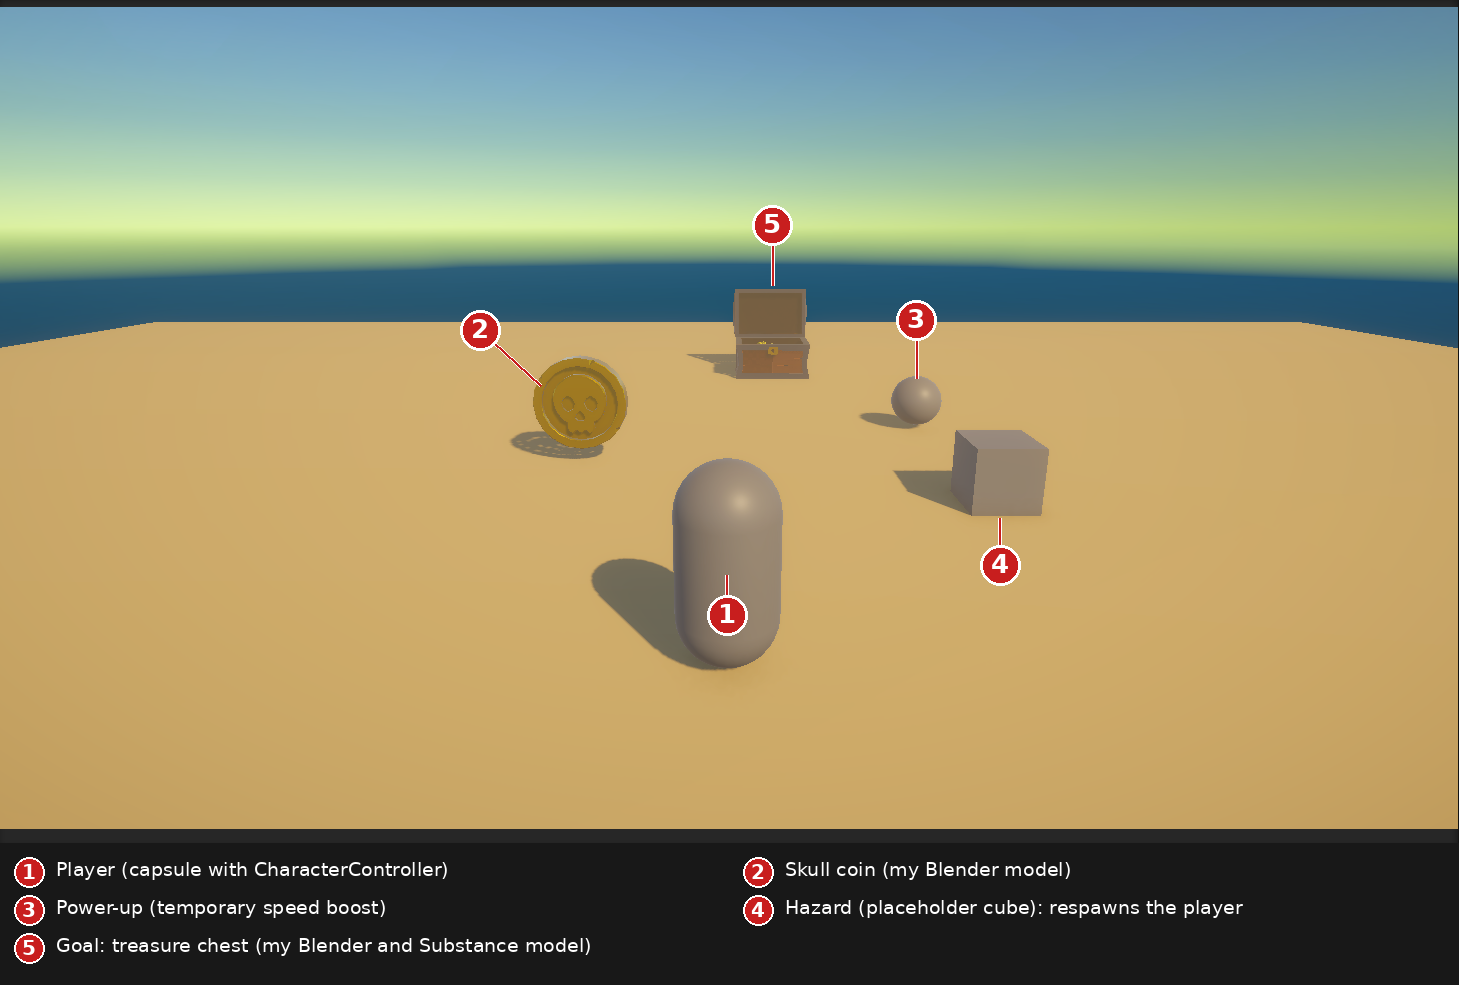
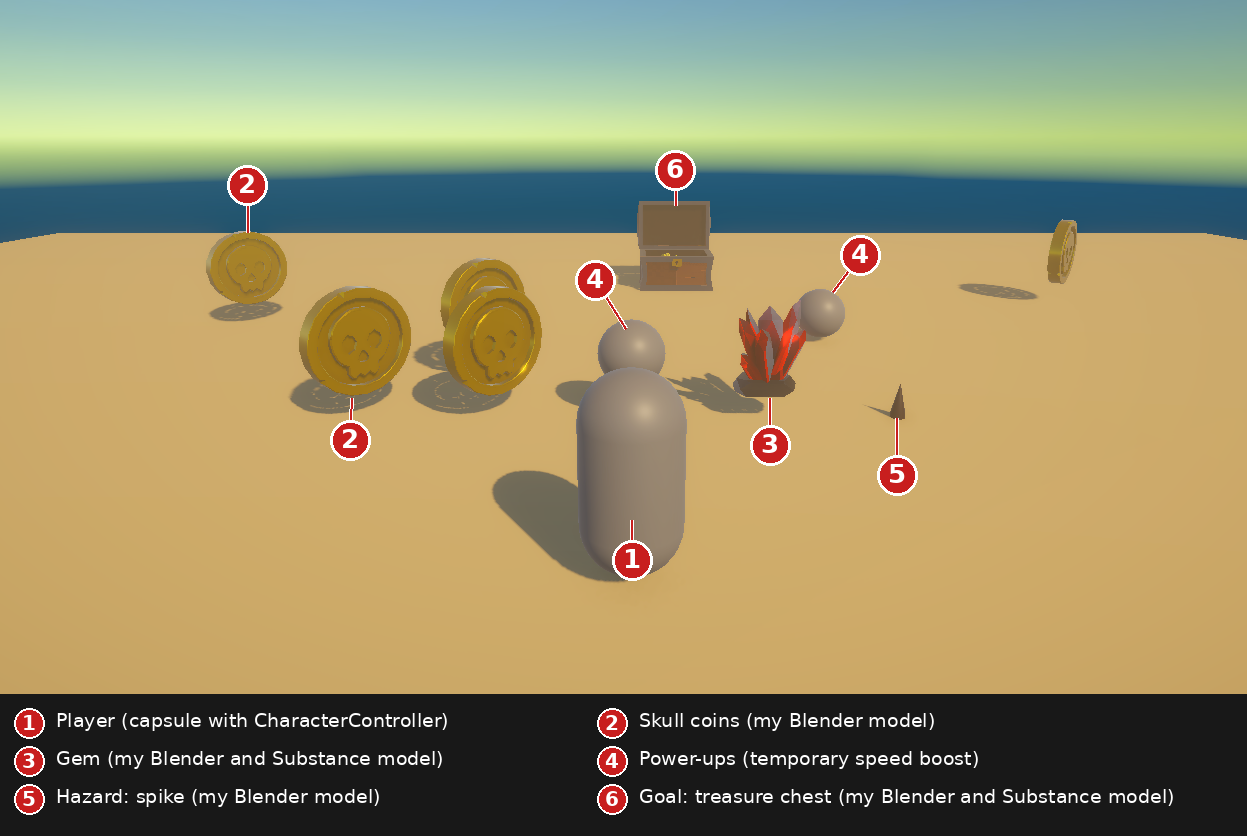
Final Finishes before recording

diff --git a/Assets/Scripts/GameManager.cs b/Assets/Scripts/GameManager.cs
@@ -17,6 +17,10 @@ public class GameManager : Singleton<GameManager>
     private string message = "";
     private float messageUntil = 0f;
 
+    // A small message under the score (power-up / gem collected).
+    private string pickupMessage = "";
+    private float pickupMessageUntil = 0f;
+
     // The native DLL keeps its combo state between Play sessions in the
     // editor, so we clear it every time the game starts.
     private void Start()
@@ -34,6 +38,13 @@ public class GameManager : Singleton<GameManager>
         lastCoinTime = Time.time;
         score += amount * multiplier;
         Debug.Log("Score: " + score + "  (combo x" + multiplier + ")");
+    }
+
+    // Called by pickups (Gem, PowerUp) to show a short message on screen.
+    public void ShowPickupMessage(string text, float seconds = 2.5f)
+    {
+        pickupMessage = text;
+        pickupMessageUntil = Time.time + seconds;
     }
 
     // Called when the player reaches the Goal.
@@ -66,16 +77,25 @@ public class GameManager : Singleton<GameManager>
         style.fontSize = size;
         style.fontStyle = FontStyle.Bold;
         style.normal.textColor = Color.white;
+        style.wordWrap = false;   // never wrap the score onto a second line
 
         // Show the combo only while it is still "alive" (3 seconds).
         int shownCombo = (Time.time - lastCoinTime <= 3f) ? lastMultiplier : 1;
-        GUI.Label(new Rect(20, 20, 600, size * 2),
+        GUI.Label(new Rect(20, 20, Screen.width - 40, size * 2),
                   "Score: " + score + "     Combo x" + shownCombo, style);
+
+        // Small pickup message under the score (power-up / gem).
+        if (pickupMessage != "" && Time.time < pickupMessageUntil)
+        {
+            GUI.Label(new Rect(20, 20 + size * 1.6f, Screen.width - 40, size * 2),
+                      pickupMessage, style);
+        }
 
         // Win / lose message in the middle of the screen.
         if (message != "" && Time.time < messageUntil)
         {
             style.alignment = TextAnchor.MiddleCenter;
+            style.wordWrap = true;
             style.fontSize = size * 2;
             GUI.Label(new Rect(0, Screen.height * 0.35f, Screen.width, size * 3),
                       message, style);

diff --git a/Assets/Scripts/Gem.cs b/Assets/Scripts/Gem.cs
@@ -9,5 +9,6 @@ public class Gem : Pickup
     protected override void Collect(GameObject player)
     {
         GameManager.Instance.AddScore(PointValue);
+        GameManager.Instance.ShowPickupMessage("Gem collected!");
     }
 }

diff --git a/README.md b/README.md
@@ -7,7 +7,7 @@
 - **Student number:** 100791126
 - **Team:** Individual (1 member)
 - **Engine:** Unity 6 (6000.5.8f1), C#, and a small C++ plugin
-- **Release / build:** [Download the build](https://github.com/AhmedThaGreat/INFR-3110/releases/latest)
+- **Release / build:** [Download the build](https://github.com/AhmedThaGreat/INFR-3110/releases/tag/v1.0-checkin)
 - **Video report:** [Watch the video](VIDEO_LINK_HERE)
 - **Project board:** [GitHub Projects board](https://github.com/users/AhmedThaGreat/projects/1/views/1)
 
@@ -23,7 +23,7 @@ I am working alone. I am a 3D environment artist taking this course as a graduat
 
 ### Roles and responsibilities (Ahmed Mounib, 100%)
 
-- **3D / environment artist:** modelled and textured the skull coin, the crystal Gem and the treasure chest (Blender, Substance Painter), and built the look of the scene (sky, lighting, ground).
+- **3D / environment artist:** modelled and textured the skull coin, the crystal Gem and the treasure chest (Blender, Substance Painter), modelled the spike trap, and built the look of the scene (sky, lighting, ground).
 - **Game designer:** came up with the game, the pickups, the pirate treasure theme, and the idea of rewarding fast play.
 - **Programmer (with AI help):** put the AI-written scripts into Unity and Visual Studio, built the plugin, and fixed what broke.
 - **Tester:** played and tested every feature, and reported errors and results back (for example, the "You Win!" message appearing twice, and the Hazard not sending the player back).
@@ -77,7 +77,7 @@ The scene is small on purpose, so each pattern is easy to see and test.
 
 ![Annotated scene overview](docs/images/scene-annotated.png)
 
-*Annotated screenshot: labels for the Player, a skull coin, a power-up, the hazard and the goal (the treasure chest). The hazard, power-up and player are still placeholder shapes.*
+*Annotated screenshot: labels for the Player, skull coins, the gem, power-ups, the hazard (my spike model) and the goal (my treasure chest). The power-ups and the player are still placeholder shapes.*
 
 **Why this scene suits the assignment:** it needs one place that keeps the score (Singleton), several kinds of items that get placed in the level (Factory), controls that can be changed (Command), and a small calculation that the C++ plugin can do.
 
@@ -104,9 +104,9 @@ I am an environment artist, so I wanted the scene to look like a real game, not 
 
 ![Crystal gem model](docs/images/gem-blender.png)
 
-**Treasure chest:** the Goal is now my own treasure chest, modelled in Blender and textured in Substance Painter.
+**Treasure chest and spike trap:** the Goal is now my own treasure chest (modelled in Blender, textured in Substance Painter), and the Hazard is my own spike model.
 
-**Still in progress:** the Hazard, the power-up and the player are still simple placeholder shapes for now.
+**Still in progress:** the power-up and the player are still simple placeholder shapes for now.
 
 ## 4. Singleton Pattern: `GameManager`
 
@@ -293,16 +293,17 @@ I used **Claude** as a coding and setup assistant throughout this project.
 I am an artist, not a programmer, so **most of the C# and C++ code in this project was written by Claude.** Here is how we worked:
 
 - **How I plan:** because programming is not my strength, I first worked out how each pattern should behave by drawing **flowcharts** on paper (what happens when a coin is collected, what a key press does, what the factory returns). Then I used Claude to help me turn those plans into working code. Clean copies of those flowcharts are in the `docs` folder ([flowcharts](docs/flowcharts.md)).
+- **Images and README:** Claude also helped with this README. It helped me create the layout and wording, and it added the numbered labels and legend to my annotated scene screenshot, and resized and renamed my screenshots. The screenshots themselves, and the art in them, are my own.
 
 ### Third-party resources
 
 | Item | Source | Notes |
 | --- | --- | --- |
 | Unity 6 (6000.5.8f1), URP template and `TutorialInfo` folder | Unity Technologies | Default project template, used as provided. |
-| Skull coin, Gem and treasure chest models and textures | **Original** (Ahmed Mounib) | Modelled in Blender, textured in Substance Painter. |
+| Skull coin, Gem, treasure chest and spike models and textures | **Original** (Ahmed Mounib) | Modelled in Blender, textured in Substance Painter. |
 | Unity Manual and Scripting API (documentation) | [docs.unity3d.com](https://docs.unity3d.com/) | Used to look up how Unity features work (for example CharacterController, prefabs, lighting). |
 | Procedural skybox shader, URP Lit shader, post-processing effects | Unity built-in | Used with my own settings. |
-| Sphere, cube, capsule | Unity built-in primitives | Still used for some placeholders (power-up, hazard, player). |
+| Sphere, capsule | Unity built-in primitives | Still used for some placeholders (power-up, player). |
 | `Singleton<T>`, `Pickup`, `Coin`, `PowerUp` | Built from course lecture and lab material | Then extended with the combo score, the Gem, and the Command system. |
 
 No other third-party assets, plugins or code are used.
